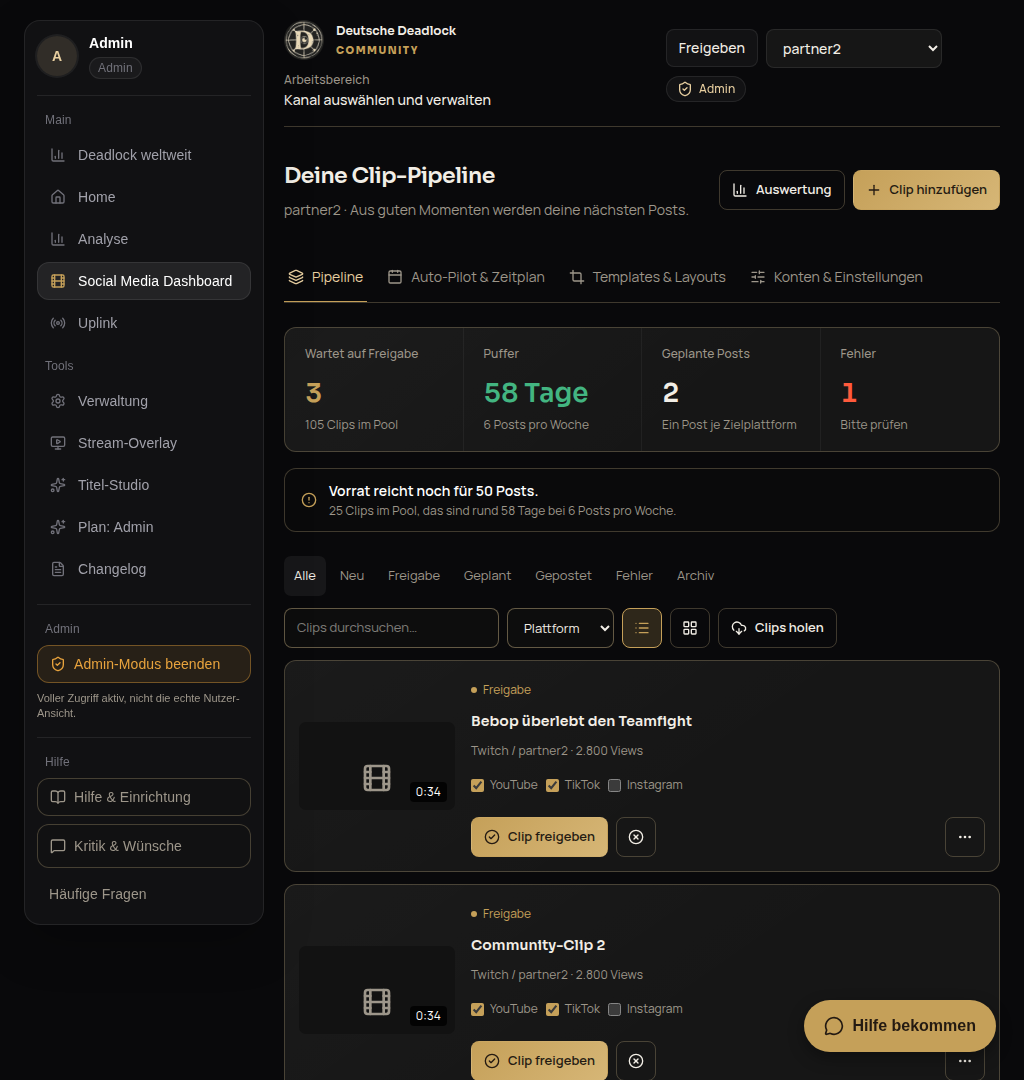
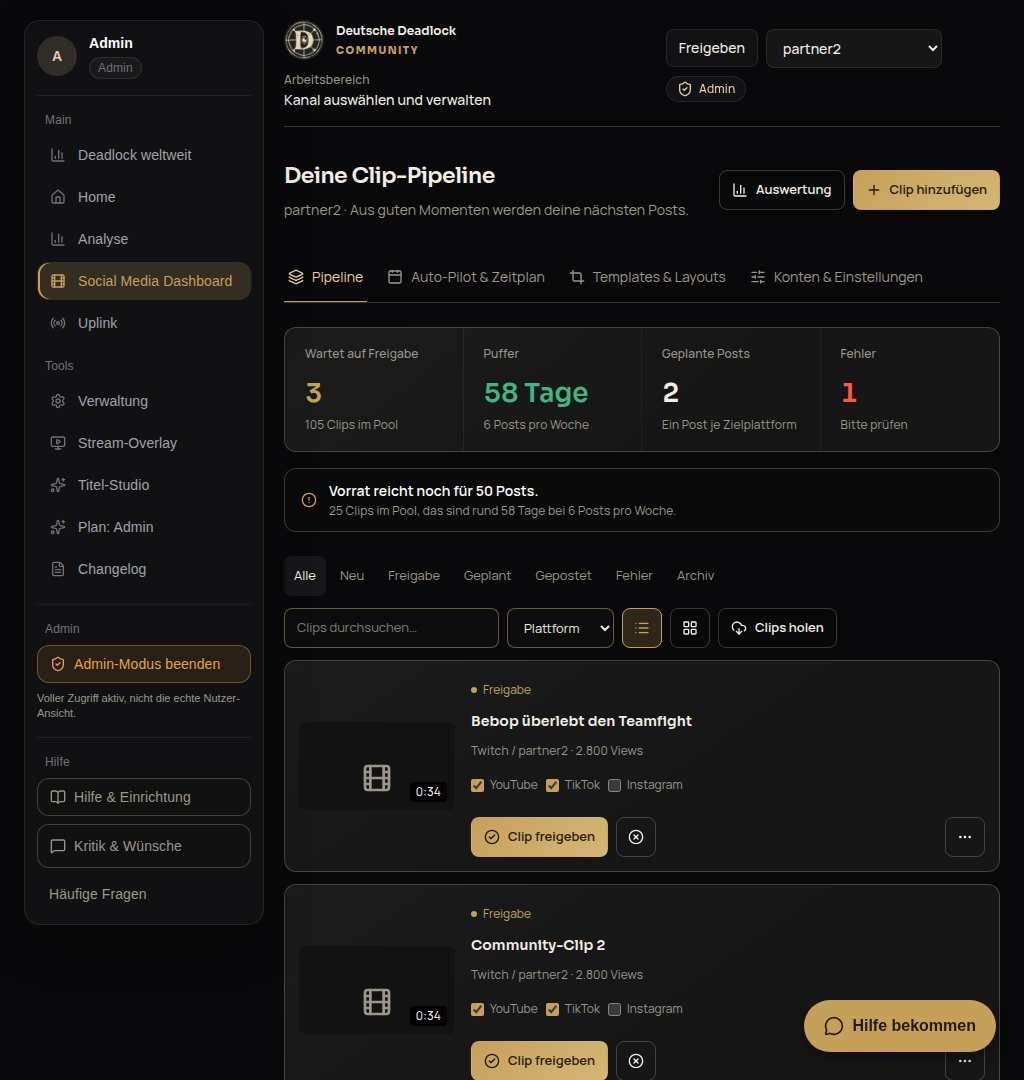
fix(dashboard): Shell in voller Breite, Gold-Navigation fuer Social Media
Die 1680px-Kappe stammte aus dem Social-Redesign (29dd9c2d); vor dem
Redesign galt REQ-07 volle Breite. Die Kappe ist entfernt, die Sidebar
bekommt auf der Social-Route den Studio-Gold-Aktivzustand zurueck, Flaeche
und Geometrie bleiben mit Home/Uplink identisch (Paritaetstest weiter
schwach). Guards und Geometrie-Tests auf volle Breite umgestellt.

diff --git a/bot/dashboard_v2/tests/dashboardShell.test.ts b/bot/dashboard_v2/tests/dashboardShell.test.ts
@@ -53,10 +53,9 @@ test('keine Seite setzt einen eigenen Gesamtrahmen mehr', () => {
   }
 });
 
-test('die Shell trägt Hintergrund, Gesamtbreite, Sidebar-Spalte und den Main-Slot', () => {
+test('die Shell trägt Hintergrund, volle Breite, Sidebar-Spalte und den Main-Slot', () => {
   assert.match(SHELL, /bg-ui-root/);
-  assert.match(SHELL, /mx-auto/);
-  assert.match(SHELL, /max-w-\[1680px\]/);
+  assert.doesNotMatch(SHELL, /max-w-\[/);
   assert.match(SHELL, /lg:grid-cols-\[240px_minmax\(0,1fr\)\]/);
   assert.match(SHELL, /<DashboardSidebar activeRoute=\{activeRoute\} \/>/);
   assert.match(SHELL, /<main[^>]*>\{children\}<\/main>/);
@@ -65,13 +64,14 @@ test('die Shell trägt Hintergrund, Gesamtbreite, Sidebar-Spalte und den Main-Sl
 test('Social Media nutzt dieselbe Shell und Navigation wie Home und Uplink', () => {
   assert.doesNotMatch(SHELL, /activeRoute\s*===\s*['"]social['"]/);
   assert.doesNotMatch(SHELL, /studio-shell|social-studio/);
-  assert.doesNotMatch(SIDEBAR, /studio-navigation|studioMenuOpen|studio-brand/);
+  assert.match(SIDEBAR, /studio-navigation/);
+  assert.doesNotMatch(SIDEBAR, /studioMenuOpen|studio-shell|studio-brand/);
   assert.equal((SHELL.match(/<DashboardSidebar /g) ?? []).length, 1);
 });
 
 test('Studio-CSS bleibt im Inhalt und definiert keinen zweiten Dashboard-Rahmen', () => {
   const studio = read('components/socialmedia/studio.css');
-  assert.doesNotMatch(studio, /\.studio-shell|\.studio-navigation/);
+  assert.doesNotMatch(studio, /\.studio-shell/);
   assert.match(read('pages/SocialMediaAdmin.tsx'), /className="social-studio space-y-6"/);
 });
 

diff --git a/bot/dashboard_v2/src/components/layout/DashboardSidebar.tsx b/bot/dashboard_v2/src/components/layout/DashboardSidebar.tsx
@@ -146,7 +146,7 @@ export function DashboardSidebar({ activeRoute }: { activeRoute: DashboardRoute 
   ];
 
   return (
-    <Rise as="aside" className="min-w-0 self-start rounded-2xl border border-white/[0.08] bg-ui-panel p-3 shadow-[0_18px_50px_rgba(0,0,0,0.22)] lg:sticky lg:top-5">
+    <Rise as="aside" className={`min-w-0 self-start rounded-2xl border border-white/[0.08] bg-ui-panel p-3 shadow-[0_18px_50px_rgba(0,0,0,0.22)] lg:sticky lg:top-5${activeRoute === 'social' ? ' studio-navigation' : ''}`}>
       <div className="space-y-4">
         <div className="flex items-center gap-3">
           {shownAvatar ? (

diff --git a/bot/dashboard_v2/src/components/socialmedia/studio.css b/bot/dashboard_v2/src/components/socialmedia/studio.css
@@ -478,3 +478,18 @@
     transition: none !important;
   }
 }
+
+/*
+ * Studio-Farblayer für die gemeinsame Sidebar auf der Social-Route:
+ * Gold-Aktivzustand wie im Studio, ohne eigene Fläche oder Struktur.
+ * Die Markenzeile bleibt im Workspace-Kopf.
+ */
+.studio-navigation a[aria-current='page'] {
+  color: var(--color-primary);
+  background: var(--color-primary-soft);
+  box-shadow: inset 2px 0 var(--color-primary);
+  border-color: transparent;
+}
+.studio-navigation .sidebar-avatar-glow {
+  box-shadow: none;
+}

diff --git a/bot/dashboard_v2/src/components/layout/DashboardShell.tsx b/bot/dashboard_v2/src/components/layout/DashboardShell.tsx
@@ -17,7 +17,7 @@ export function DashboardShell({
   const withSidebar = !demoMode && showSidebar;
   return (
     <div className="relative min-h-screen bg-ui-root text-ui-text">
-      <div className="relative mx-auto max-w-[1680px] px-3 py-4 md:px-5 md:py-5 lg:px-6">
+      <div className="relative px-3 py-4 md:px-5 md:py-5 lg:px-6">
         {withSidebar ? (
           <div className="grid gap-4 lg:grid-cols-[240px_minmax(0,1fr)] lg:gap-5">
             <DashboardSidebar activeRoute={activeRoute} />

diff --git a/.tasks/2026-09-22-social-dashboard-shell-size/EVIDENCE.md b/.tasks/2026-09-22-social-dashboard-shell-size/EVIDENCE.md
@@ -19,3 +19,20 @@ Browser: gebautes Produktionsbundle gegen isolierte API-Fixtures, keine Produkti
 ## Integration / Live
 
 Noch nicht integriert oder deployed. Review-Gate und Live-Nachweis getrennt vom Implementierungsstand führen.
+
+## Ergänzung 2026-09-22, abends: Volle Breite und Gold-Navigation (Nutzer-Entscheid)
+
+Der Nutzer wollte die Breite von vor dem Redesign zurueck (REQ-07: volle Breite)
+und die farbliche Navigation behalten. Die 1680px-Kappe aus dem Vormittags-Fix
+kam erst mit dem Redesign (29dd9c2d) und ist entfernt; die Sidebar erhaelt auf
+der Social-Route den Studio-Farblayer (Gold-Aktivzustand, Inset-Balken), Flaeche
+und Geometrie bleiben mit Home/Uplink identisch.
+
+Geaendert: DashboardShell.tsx (Kappe raus), DashboardSidebar.tsx
+(studio-navigation-Klasse), studio.css (Farblayer), dashboardShell.test.ts und
+socialStudio.browser.test.mjs (Guard auf volle Breite, Geometrie ohne Kappe).
+
+Pruefungen: tsc+vite Exit 0, 44/44 fokussierte Unit-Tests, 20/20 Browser-Tests
+gegen Produktionsbundle mit isolierten API-Fixtures (playwright-core, System-
+Chrome), ESLint Exit 0. Messwerte und Screenshots in diesem Ordner, Stand
+21:32; 1920px: Sidebar x=24/240px, Main x=284/Breite 1612px.
